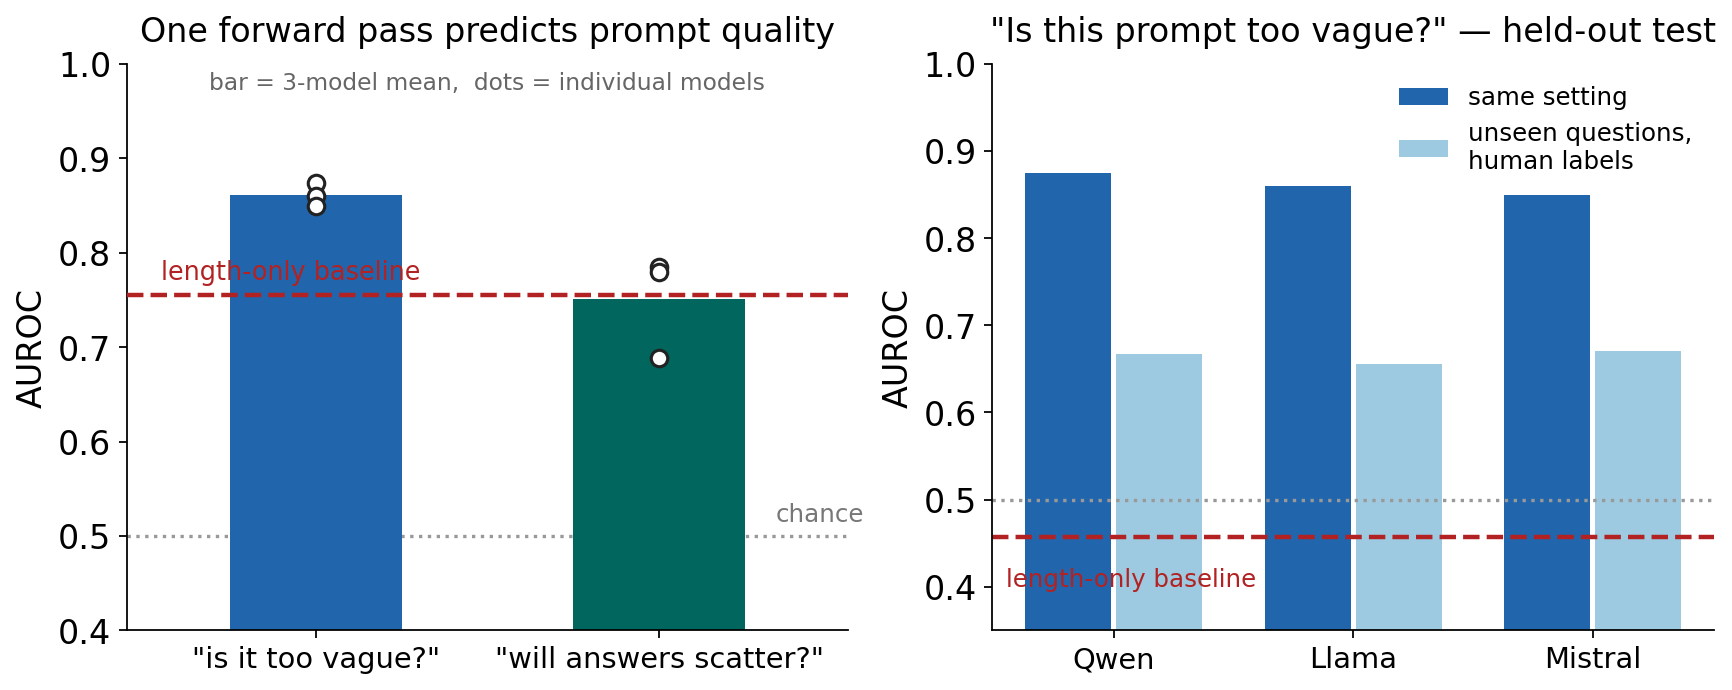
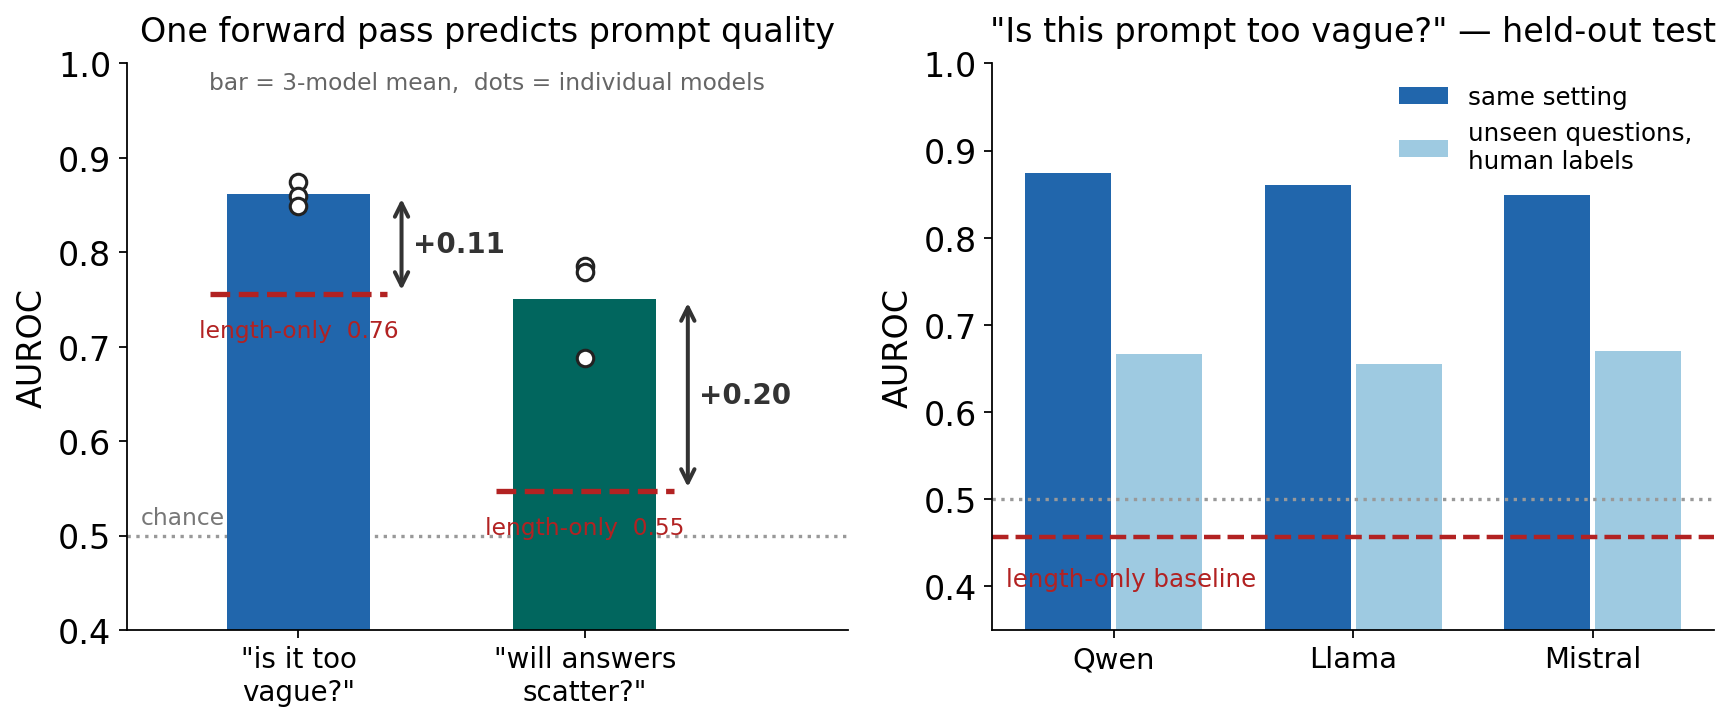
[deck] Fix misleading shared length baseline on the prompt-checker slide
The left panel drew ONE dashed line at .755 — the VAGUENESS head's length
baseline — across both bars, so the dispersion bar (.75) appeared to lose to
length. Each head has its own baseline: vagueness .755, dispersion .55 (mean
over models). Corrected to per-head baselines with explicit margins: the
dispersion head beats length by +0.20, the vagueness head by +0.11 — i.e. the
opposite of what the chart implied.

Numbers unchanged; only the reference line was wrong.

diff --git a/prompt_sensitivity/scripts/make_supervisor_figures.py b/prompt_sensitivity/scripts/make_supervisor_figures.py
@@ -248,13 +248,24 @@ def fig_feedback(root, out):
         ax.scatter([i] * 3, per_model[h], s=55, color="white", edgecolor="#222222",
                    zorder=4, linewidth=1.4)
     ax.axhline(0.5, ls=":", color="#999999", zorder=1)
-    ax.text(1.34, 0.515, "chance", fontsize=11, color="#777777")
-    ax.axhline(ver[ver["head"] == "vagueness"].auroc_length_baseline.iloc[0],
-               ls="--", color="#B22222", lw=2, zorder=3)
-    ax.text(-0.45, 0.772, "length-only baseline", fontsize=11.5, color="#B22222")
+    ax.text(-0.55, 0.512, "chance", fontsize=10.5, color="#777777", ha="left")
+    # EACH head gets ITS OWN length baseline. A single shared line (the
+    # vagueness one, .755) made the dispersion head look like it loses to
+    # length, when its own baseline is ~.55 and its margin is the larger one.
+    for i, h in enumerate(heads):
+        base = float(ver[ver["head"] == h].auroc_length_baseline.mean())
+        ax.plot([i - 0.31, i + 0.31], [base, base], ls="--", color="#B22222",
+                lw=2.4, zorder=5)
+        ax.text(i, base - 0.045, f"length-only  {base:.2f}", ha="center",
+                fontsize=10.5, color="#B22222")
+        ax.annotate("", xy=(i + 0.36, means[i]), xytext=(i + 0.36, base),
+                    arrowprops=dict(arrowstyle="<->", lw=1.8, color="#333333"))
+        ax.text(i + 0.40, (means[i] + base) / 2, f"+{means[i]-base:.2f}",
+                fontsize=12.5, fontweight="bold", va="center", color="#333333")
     ax.set_xticks(x)
-    ax.set_xticklabels(['"is it too vague?"', '"will answers scatter?"'], fontsize=13)
-    ax.set_xlim(-0.55, 1.55)
+    ax.set_xticklabels(['"is it too\nvague?"', '"will answers\nscatter?"'],
+                       fontsize=12.5)
+    ax.set_xlim(-0.6, 1.92)
     ax.set_ylim(0.4, 1.0)
     ax.set_ylabel("AUROC")
     ax.set_title("One forward pass predicts prompt quality", fontsize=15, pad=10)
